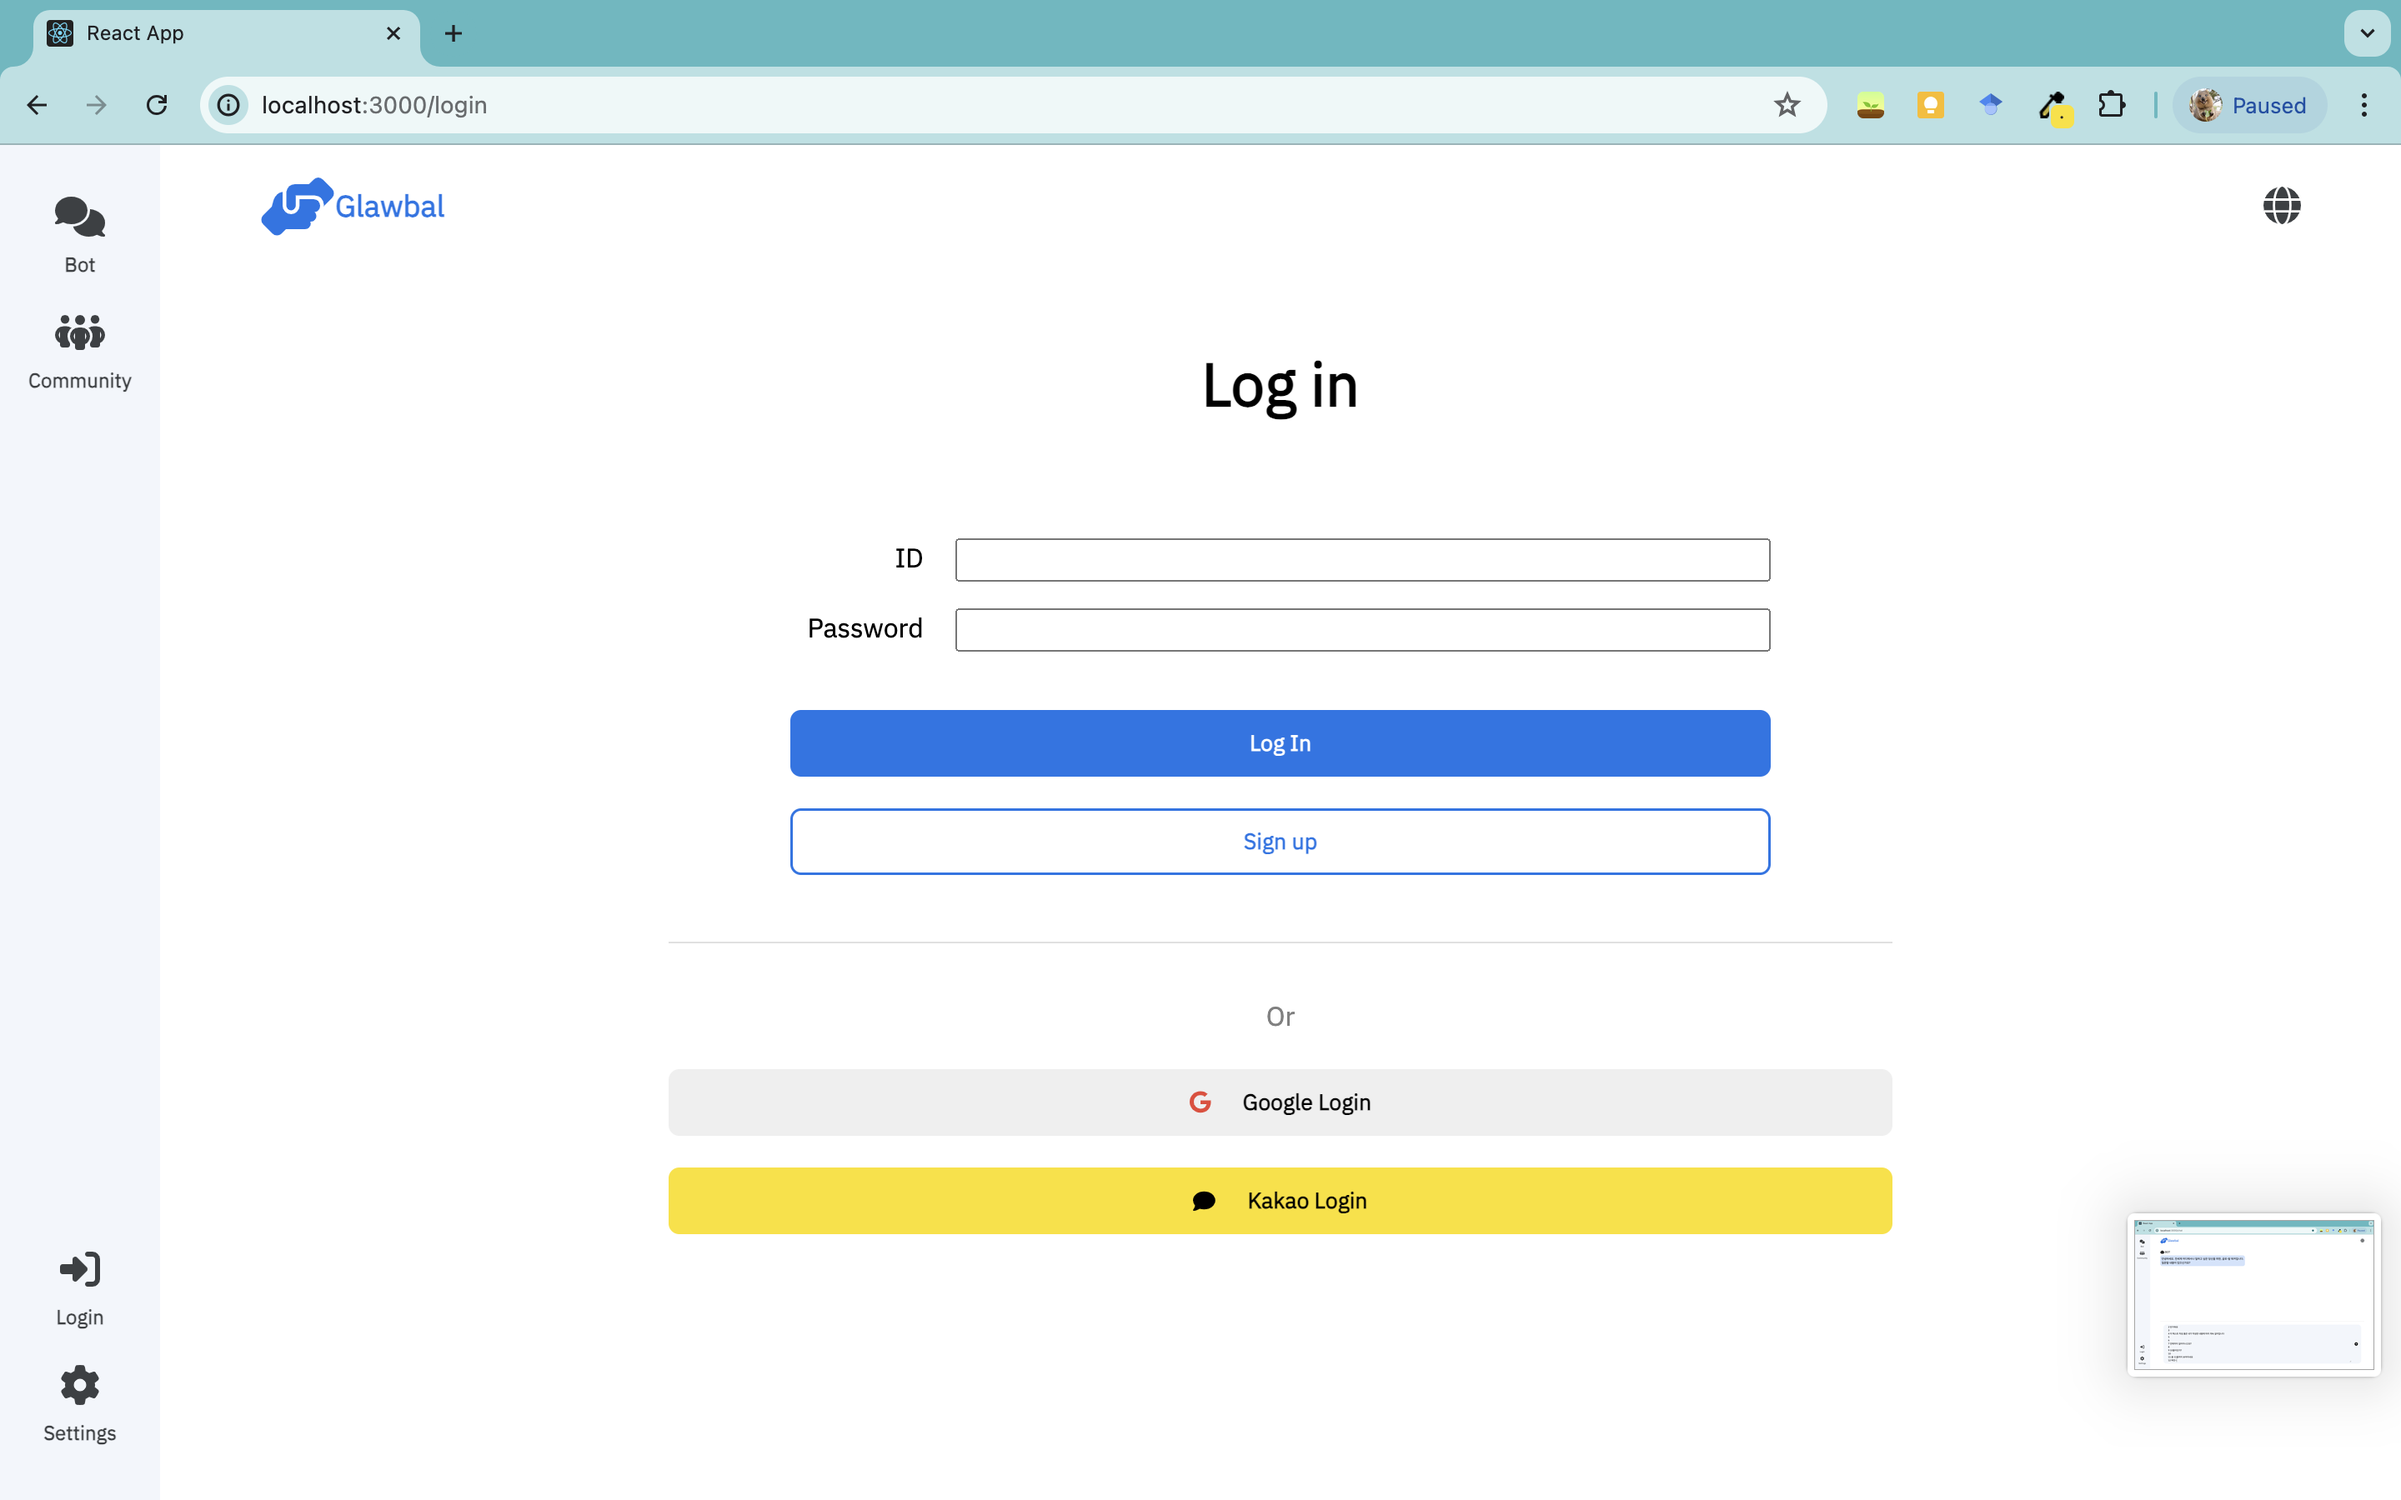
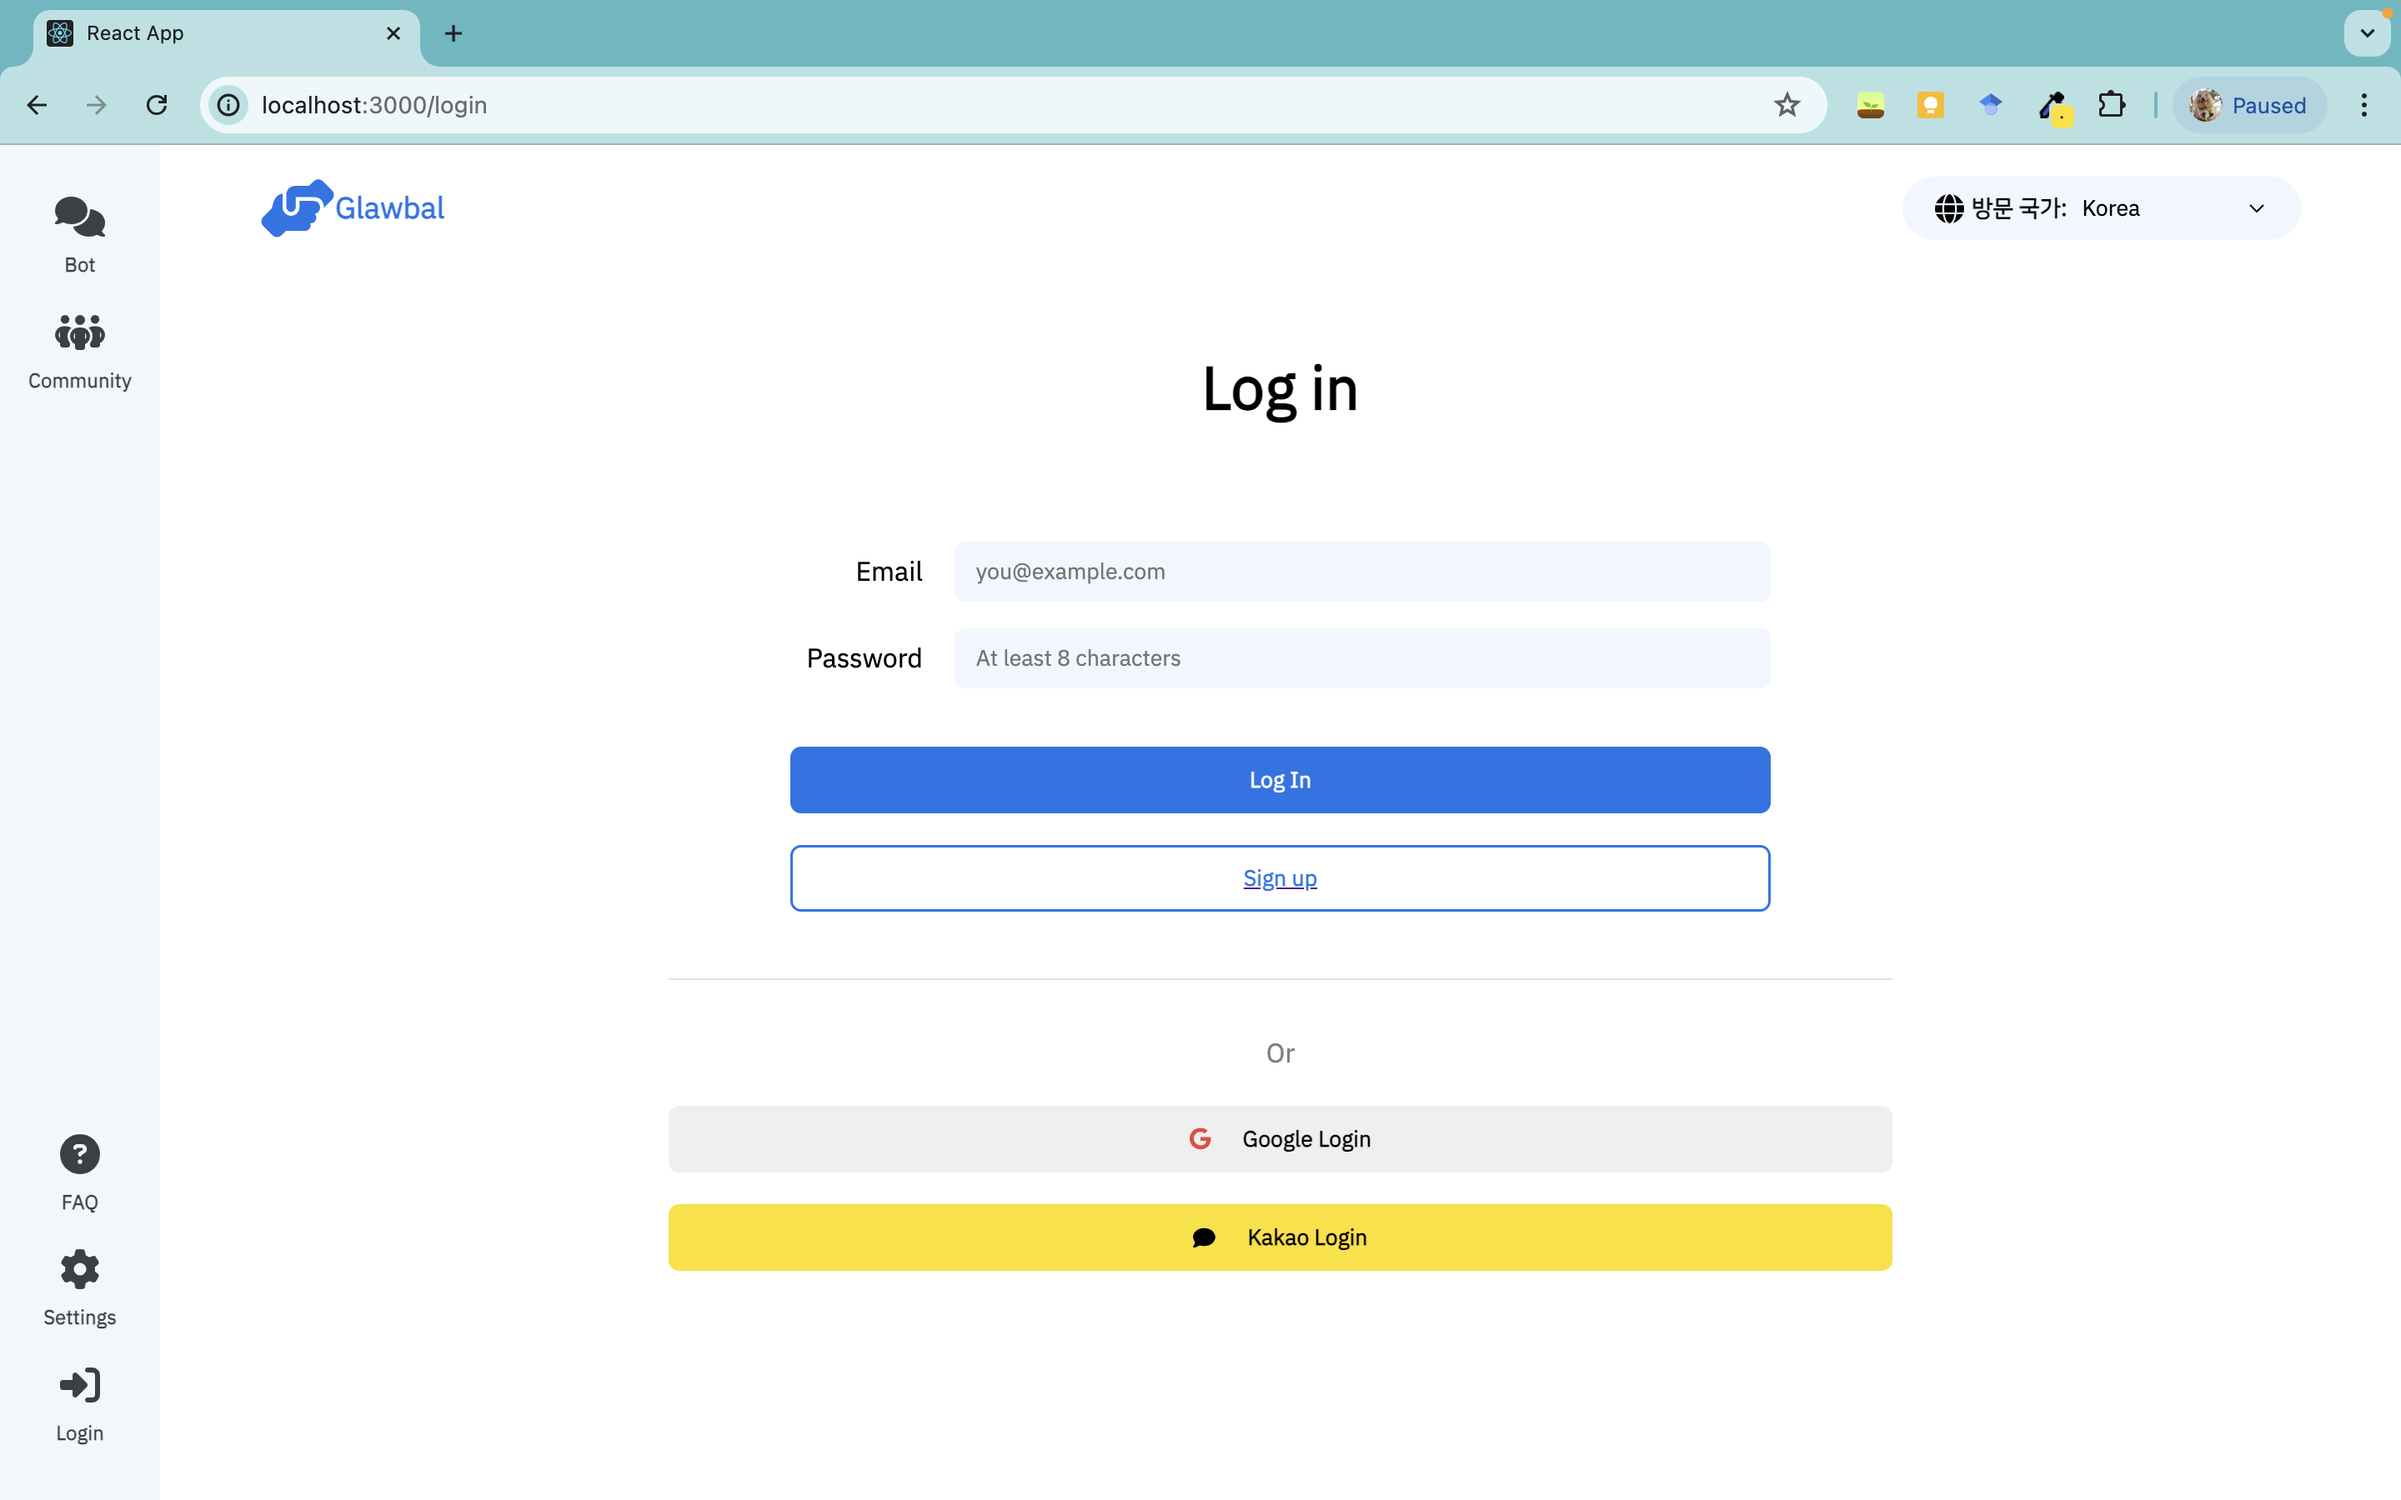
Update Login&Join
- 로그인 화면 일부 수정
- 회원가입 화면 생성
- 로그인/회원가입 폴더 병합

diff --git a/src/Pages/Login/JoinPresenter.jsx b/src/Pages/Login/JoinPresenter.jsx
@@ -9,11 +9,16 @@ import { faGoogle } from '@fortawesome/free-brands-svg-icons';
 import GButton from '../../Componentts/GButton/GButton';
 import { faComment } from '@fortawesome/free-solid-svg-icons';
 
-const LoginPresenter = () => {
+const JoinPresenter = () => {
     return (
         <div className='form'>
-            <div className="title"><h1>Log in</h1></div>
+            <div className="title"><h1>Join</h1></div>
             <div className="basicLogin">
+                {/* Name */}
+                <div className="name">
+                    <div className="label">Name</div>
+                    <input type='text' placeholder=''/>
+                </div>
                 {/* ID */}
                 <div className="id">
                     <div className="label">Email</div>
@@ -24,29 +29,21 @@ const LoginPresenter = () => {
                     <div className="label">Password</div>
                     <input type='password' placeholder='At least 8 characters'/>
                 </div>
+                {/* Terms and Conditions */}
+                <div className='terms'>
+                    <input type="checkbox" />
+                    I agree with <Link to=''>terms and conditions</Link>
+                </div>
                 {/* Button */}
                 <div className="btn">
-                    <GButton color='primary'>Log In</GButton>
-                    <Link to='/join'>
-                        <GButton color='outlinePrimary'>Sign up</GButton>
-                    </Link>
+                    <GButton color='primary'>Create Account</GButton>
                 </div>
-            </div>
-            <Divider/>
-            <div className="snsLogin">
-                Or
-                <GButton> 
-                    <FontAwesomeIcon icon={faGoogle} style={{color: '#EA4435'}} />
-                    Google Login
-                </GButton>
-                <GButton color='yellow'> 
-                    <FontAwesomeIcon icon={faComment}/>
-                    Kakao Login
-                </GButton>
+                <div className="backToLogin">
+                    Already have an account? <Link to='/login'>Log in</Link>
+                </div>
             </div>
         </div>
     );
 };
 
-
-export default LoginPresenter;
+export default JoinPresenter;

diff --git a/src/Pages/Login/login.scss b/src/Pages/Login/login.scss
@@ -12,6 +12,21 @@
     gap: var(--section-gap)
 }
 
+
+// Join
+.basicLogin .terms {
+    justify-content: flex-start;
+    gap: 0.5rem;
+}
+
+.basicLogin .backToLogin {
+    justify-content: flex-end;
+    font-style: italic;
+    margin-right: 1rem;
+    gap: 0.5rem;
+    color: var(--clr-gray);
+}
+
 // Title
 .title {
     text-align: center;
@@ -31,21 +46,36 @@
 .basicLogin > div {
     display: flex;
     gap: var(--component-gap);
+    justify-content: space-around;
 }
 
 .basicLogin .label {
+    margin: auto;
     width: 6rem;
     text-align: end;
 }
 
 .basicLogin input {
     width: -webkit-fill-available;
+    border-radius: var(--border-radius-1);
+    border: none;
+    padding: var(--padding-1) var(--padding-2);
+    background-color: var(--clr-background);
+}
+
+.basicLogin input[type="checkbox"] {
+    width: min-content;
 }
 
 .basicLogin .btn {
     margin-top: 1.2rem;
     flex-direction: column;
 }
+
+.btn button {
+    width: 100%;
+}
+
 
 // SNS Login
 .snsLogin {

diff --git a/src/Pages/Home/Router.jsx b/src/Pages/Home/Router.jsx
@@ -2,7 +2,7 @@ import React, { useState } from 'react';
 import { BrowserRouter, Route, Routes } from 'react-router-dom';
 import HomeContainer from './HomeContainer';
 import LoginPresenter from '../Login/LoginPresenter';
-import JoinPresenter from '../Join/JoinPresenter';
+import JoinPresenter from '../Login/JoinPresenter';
 import CommunityPresenter from '../Commnunity/CommunityPresenter';
 import Chatbot from '../Chatbot/ChatbotContainer';
 import DBPresenter from '../Admin/DBPresenter';

diff --git a/README.md b/README.md
@@ -40,7 +40,6 @@ Glawber
     │   │   ├── Chatbot
     │   │   ├── Community
     │   │   ├── Home
-    │   │   ├── Join
     │   │   └── Login
     │   └── index.js
     ├── .gitignore
